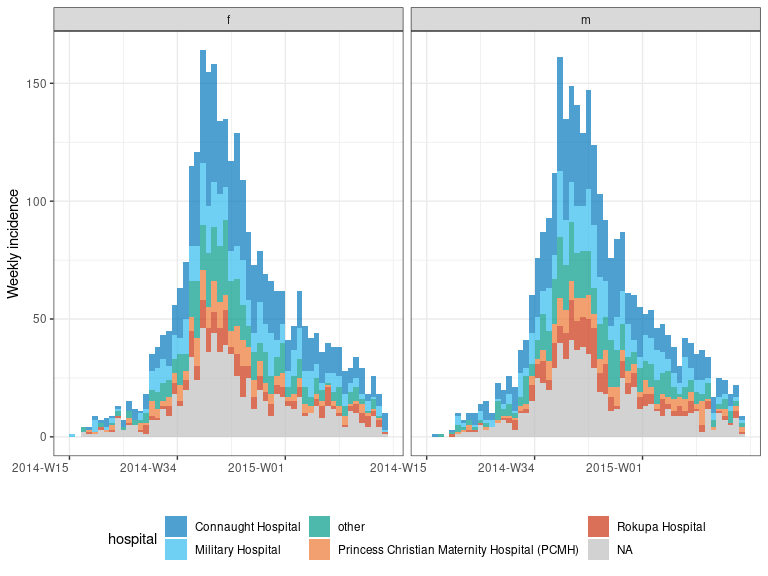
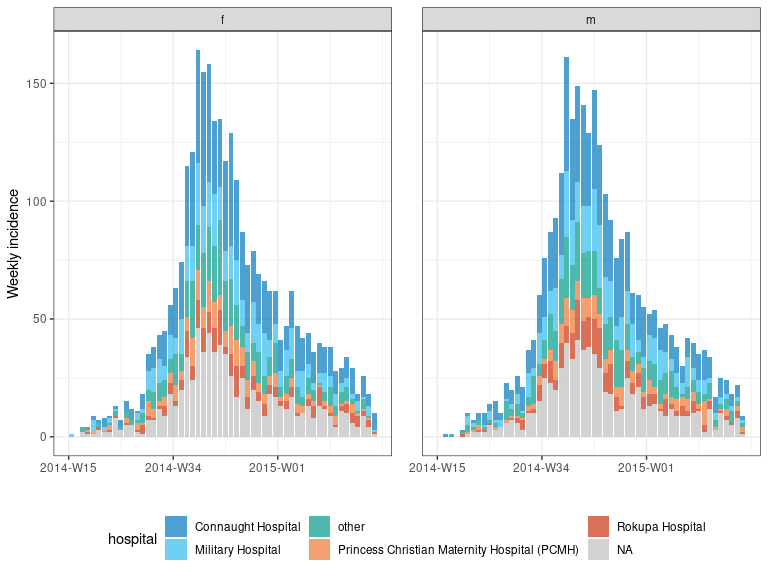
centre plot labels and improve spacing in facets

diff --git a/README.md b/README.md
@@ -249,18 +249,18 @@ i_7_sh
 #> [interval: 1 week]
 #> [cumulative: FALSE]
 #> 
-#>    bin_date   week_group gender hospital                                   count
-#>    <date>     <aweek>    <fct>  <fct>                                      <int>
-#>  1 2014-04-07 2014-W15   f      Military Hospital                              1
-#>  2 2014-04-07 2014-W15   m      Military Hospital                              0
-#>  3 2014-04-07 2014-W15   f      Connaught Hospital                             0
-#>  4 2014-04-07 2014-W15   m      Connaught Hospital                             0
-#>  5 2014-04-07 2014-W15   f      other                                          0
-#>  6 2014-04-07 2014-W15   m      other                                          0
-#>  7 2014-04-07 2014-W15   f      <NA>                                           0
-#>  8 2014-04-07 2014-W15   m      <NA>                                           0
-#>  9 2014-04-07 2014-W15   f      Princess Christian Maternity Hospital (PC…     0
-#> 10 2014-04-07 2014-W15   m      Princess Christian Maternity Hospital (PC…     0
+#>    bin_date   week_group gender hospital                                 count
+#>    <date>     <aweek>    <fct>  <fct>                                    <int>
+#>  1 2014-04-07 2014-W15   f      Military Hospital                            1
+#>  2 2014-04-07 2014-W15   m      Military Hospital                            0
+#>  3 2014-04-07 2014-W15   f      Connaught Hospital                           0
+#>  4 2014-04-07 2014-W15   m      Connaught Hospital                           0
+#>  5 2014-04-07 2014-W15   f      other                                        0
+#>  6 2014-04-07 2014-W15   m      other                                        0
+#>  7 2014-04-07 2014-W15   f      <NA>                                         0
+#>  8 2014-04-07 2014-W15   m      <NA>                                         0
+#>  9 2014-04-07 2014-W15   f      Princess Christian Maternity Hospital (…     0
+#> 10 2014-04-07 2014-W15   m      Princess Christian Maternity Hospital (…     0
 #> # … with 662 more rows
 i_7_sh %>% summary()
 #> An incidence2 object: 672 x 5
